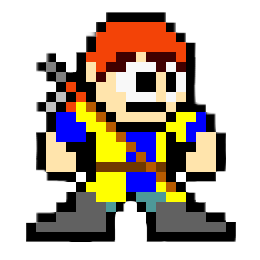
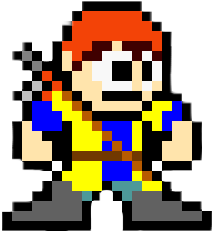
Add exit physics

diff --git a/app/scripts/exit.js b/app/scripts/exit.js
@@ -20,7 +20,9 @@ Exit.prototype = {
     this.sprite.scale.x = 1.3;
     this.sprite.scale.y = 1.3;
     this.game.physics.p2.enable(this.sprite);
-    this.sprite.body.kinematic = true;
+    //this.sprite.body.kinematic = true;
+    this.sprite.body.velocity.x = 0;
+    this.sprite.body.fixedRotation = true;
   },
 
   update: function() {

diff --git a/app/scripts/index.js b/app/scripts/index.js
@@ -82,7 +82,7 @@ function create() {
   game.player.create();
   game.camera.follow(game.player.sprite);
 
-  game.level.entities.filter(function(entity) {
+  game.levels[currentLevel].entities.filter(function(entity) {
     return entity instanceof Block && entity.isMovable;
   })[0].move('right', 1);
 }

diff --git a/app/scripts/player.js b/app/scripts/player.js
@@ -119,7 +119,7 @@ Player.prototype = {
 
   preload: function() {
     this.logger.info("Loading player sprite.");
-    this.game.load.spritesheet('player', 'img/man.png', 260, 260);
+    this.game.load.spritesheet('player', 'img/man.png', 214, 231);
   },
 
   create: function() {
